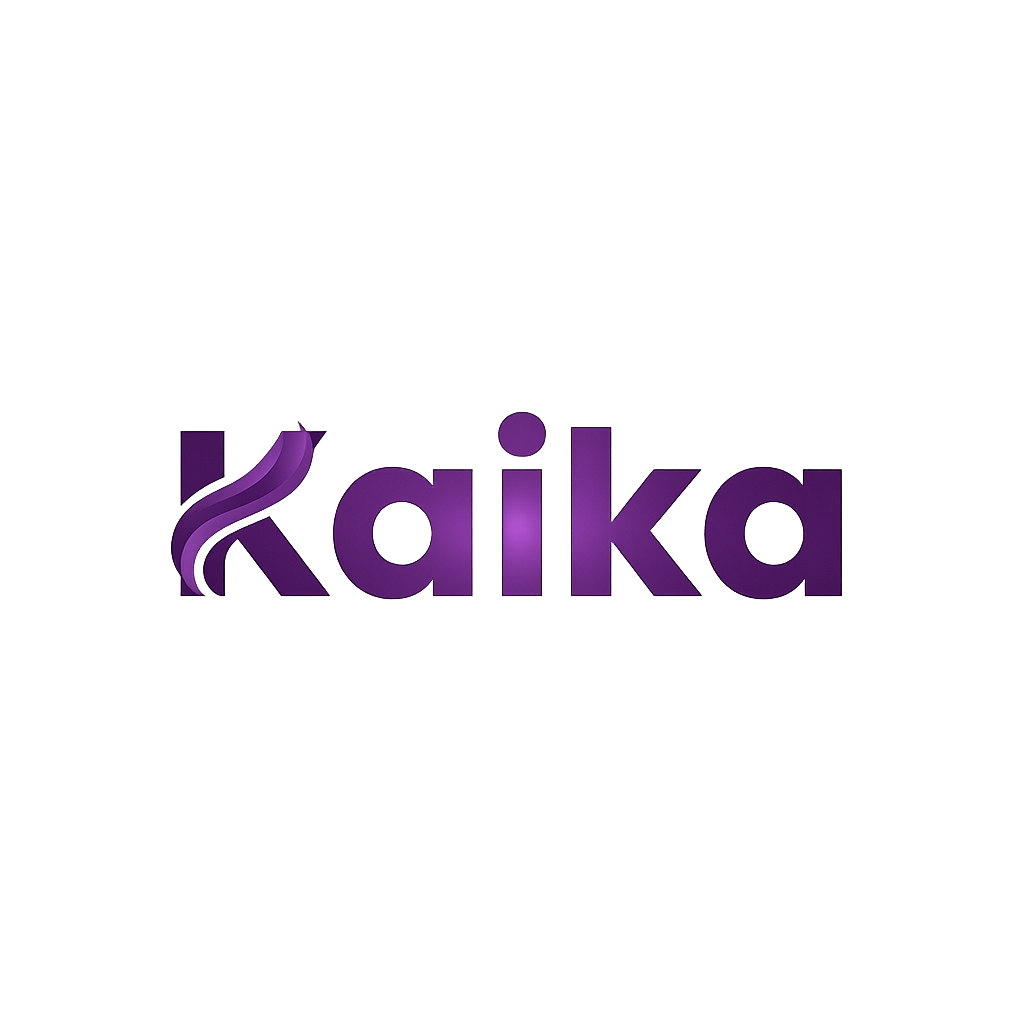
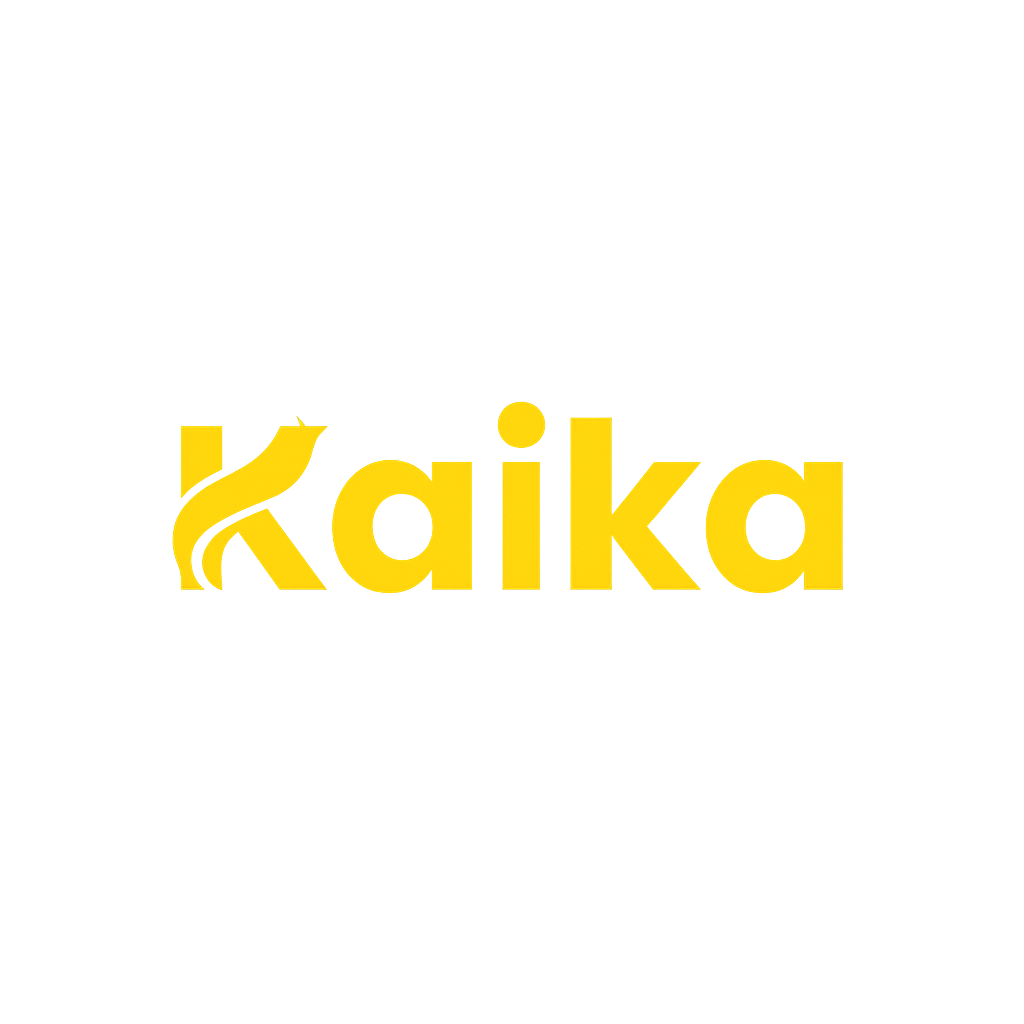
Services Images Updated

Changed region(s): [[0.1562, 0.375, 0.8438, 0.5938]]

diff --git a/src/components/Services.jsx b/src/components/Services.jsx
@@ -87,56 +87,56 @@ const Services = () => {
       description: "Brand positioning and market entry planning",
       detailedDescription: "We craft winning brand strategies from positioning and market research to competitive analysis. With Kaika, your brand doesn't just launch; it stands out.",
       hasPrice: false,
-      imagePath: "/strategy.jpeg" 
+      imagePath: "/strategy.png" 
     },
     {
       title: "Design",
       description: "Product and packaging design solutions",
       detailedDescription: "Product and packaging design that strikes a balance between creativity and functionality. Our team ensures your brand identity speaks volumes and attracts the right customers.",
       hasPrice: false,
-      imagePath: "/design.jpg" 
+      imagePath: "/design.png" 
     },
     {
       title: "Manufacturing",
       description: "End-to-end production management",
       detailedDescription: "End-to-end manufacturing solutions from sourcing premium materials and vendor vetting to production management and quality control. We deliver the best quality at affordable costs, so your growth is smooth and sustainable.",
       hasPrice: false,
-      imagePath: "/manufacturing.jpg" 
+      imagePath: "/manufacturing.png" 
     },
     {
       title: "Packaging",
       description: "Sustainable and brand-aligned packaging",
       detailedDescription: "Packaging design and production tailored to your brand story. From luxury finishes to eco-friendly solutions, we ensure your products make a lasting first impression. Your brand, our accountability.",
       hasPrice: false,
-      imagePath: "/packaging.jpg" 
+      imagePath: "/packaging.png" 
     },
     {
       title: "Fulfillment",
       description: "Warehousing and order fulfillment",
       detailedDescription: "Seamless logistics and order fulfillment solutions. We handle warehousing, distribution, and delivery so your customers enjoy a flawless brand experience.",
       hasPrice: false,
-      imagePath: "/fulfillment.jpg" 
+      imagePath: "/fulfillment.png" 
     },
     {
       title: "Legal",
       description: "Compliance and intellectual property",
       detailedDescription: "Full legal compliance and documentation support. From contracts and licensing to international trade regulations, Kaika safeguards your brand at every step.",
       hasPrice: false,
-      imagePath: "/legal.jpg" 
+      imagePath: "/legal.png" 
     },
     {
       title: "Marketing",
       description: "Digital and retail marketing strategies",
       detailedDescription: "Digital marketing and brand promotion strategies that drive awareness, engagement, and sales. From social media to performance campaigns, we help your brand scale globally.",
       hasPrice: false,
-      imagePath: "/marketing.jpg" 
+      imagePath: "/marketing.png" 
     },
     {
       title: "Expansion",
       description: "Market expansion and scaling solutions",
       detailedDescription: "Market expansion and scaling solutions to take your brand beyond borders. With the right partners, supply chain, and execution, Kaika ensures you grow without limits.",
       hasPrice: false,
-      imagePath: "/expansion.jpg" 
+      imagePath: "/expansion.png" 
     }
   ];
 

diff --git a/src/components/ServiceDetails.jsx b/src/components/ServiceDetails.jsx
@@ -33,7 +33,7 @@ const ServiceDetails = () => {
         "Because at Kaika, we don't just position brands, we define how they lead."
       ],
       hasPrice: false,
-      imagePath: "/strategy.jpeg"
+      imagePath: "/strategy.png"
     },
     {
       id: 'design',
@@ -46,7 +46,7 @@ const ServiceDetails = () => {
         "Because great design doesn't just look good, it drives recognition, trust, and long-term growth."
       ],
       hasPrice: false,
-      imagePath: "/design.jpg"
+      imagePath: "/design.png"
     },
     {
       id: 'manufacturing',
@@ -59,7 +59,7 @@ const ServiceDetails = () => {
         "With Kaika, you don't just manufacture, you build quality-backed brands that scale without surprises."
       ],
       hasPrice: false,
-      imagePath: "/manufacturing.jpg"
+      imagePath: "/manufacturing.png"
     },
     {
       id: 'packaging',
@@ -74,7 +74,7 @@ const ServiceDetails = () => {
         "Your brand, our accountability. Because at Kaika, we design experiences that build lasting impressions."
       ],
       hasPrice: false,
-      imagePath: "/packaging.jpg"
+      imagePath: "/packaging.png"
     },
     {
       id: 'fulfillment',
@@ -88,7 +88,7 @@ const ServiceDetails = () => {
         "Backed by concierge-style brand management, we make sure every order reflects your brand's promise of quality and accountability."
       ],
       hasPrice: false,
-      imagePath: "/fulfillment.jpg"
+      imagePath: "/fulfillment.png"
     },
     {
       id: 'legal',
@@ -99,7 +99,7 @@ const ServiceDetails = () => {
         "You focus on building your brand, we handle the paperwork and protect your name."
       ],
       hasPrice: false,
-      imagePath: "/legal.jpg"
+      imagePath: "/legal.png"
     },
     {
       id: 'marketing',
@@ -113,7 +113,7 @@ const ServiceDetails = () => {
         "Because a brand without visibility isn't a brand that lasts."
       ],
       hasPrice: false,
-      imagePath: "/marketing.jpg"
+      imagePath: "/marketing.png"
     },
     {
       id: 'expansion',
@@ -127,7 +127,7 @@ const ServiceDetails = () => {
         "Because with Kaika, your brand doesn't just grow — it scales with purpose."
       ],
       hasPrice: false,
-      imagePath: "/expansion.jpg"
+      imagePath: "/expansion.png"
     }
   ];
 

diff --git a/src/components/CallToAction.jsx b/src/components/CallToAction.jsx
@@ -25,14 +25,17 @@ const CallToAction = () => {
       className="cta-section"
       style={{
         padding: `clamp(60px, 10vw, 80px) clamp(10px, 5vw, 20px)`,
-        backgroundColor: '#9000ad',
-        color: 'white',
-        textAlign: 'center',
-        width: '100%',
-        maxWidth: '100vw',
-        margin: '0 auto',
-        boxSizing: 'border-box',
-        overflow: 'hidden',
+        backgroundImage: 'url("/ReadyToImage.jpeg")',
+        backgroundSize: "cover",
+        backgroundPosition: "center",
+        backgroundRepeat: "no-repeat",
+        color: "white",
+        textAlign: "center",
+        width: "100%",
+        maxWidth: "100vw",
+        margin: "0 auto",
+        boxSizing: "border-box",
+        overflow: "hidden",
       }}
     >
       <div className="cta-container">
@@ -62,6 +65,7 @@ const CallToAction = () => {
         .cta-title {
           font-size: clamp(2rem, 4vw, 2.5rem);
           margin-bottom: 20px;
+          color: #fcee21;
           line-height: 1.2;
           font-weight: 700;
           animation: fadeInUp 0.8s ease-out;
@@ -94,8 +98,8 @@ const CallToAction = () => {
         }
 
         .btn-white {
-          background: #fff;
-          color: #9000ad;
+          background: #fcee21;
+          color: black;
           border: 2px solid transparent;
           box-shadow: 0 0 15px rgba(255,255,255,0.3);
         }
@@ -111,7 +115,7 @@ const CallToAction = () => {
         }
         .btn-outline:hover {
           background: #fff;
-          color: #9000ad;
+          color: #fcee21;
           transform: translateY(-3px) scale(1.05);
           box-shadow: 0 0 25px rgba(255,255,255,0.5);
         }

diff --git a/src/components/Footer.css b/src/components/Footer.css
@@ -30,7 +30,7 @@
 /* HEADINGS */
 .footer-grid h3 {
   font-size: 1.2rem;
-  color: #9000ad;
+  color: #fcee21;
   margin-bottom: 20px;
   text-align: center;
 }
@@ -54,7 +54,7 @@
 }
 
 .footer-grid a:hover {
-  color: #9000ad;
+  color: #fcee21;
 }
 
 /* DIVIDER */
@@ -87,12 +87,12 @@
 }
 
 .text-purple {
-  color: #9000ad;
+  color: #fcee21;
   font-weight: 500;
 }
 
 .text-purple-bold {
-  color: #9000ad;
+  color: #fcee21;
   font-weight: 700;
 }
 
@@ -126,8 +126,8 @@
 
 /* BUTTON */
 .footer-btn {
-  background-color: #9000ad;
-  color: white;
+  background-color: #fcee21;
+  color: black;
   border: none;
   padding: 12px 30px;
   font-size: 1rem;
@@ -140,7 +140,7 @@
 }
 
 .footer-btn:hover {
-  background-color: #b020c5;
+  background-color: #fcee21;
 }
 
 /* IMAGE */

diff --git a/src/components/Hero.jsx b/src/components/Hero.jsx
@@ -3,7 +3,7 @@ import React, { useState, useEffect } from 'react';
 const Hero = ({ slides: propSlides = [] }) => {
   const defaultSlides = [
     {
-      image: '/banner.png',
+      image: '/5.png',
       title: 'We Build Brands That Last',
       subtitle: 'From vision to legacy — Your dream, designed to last.',
       subsubtitle:

diff --git a/src/components/Footer.jsx b/src/components/Footer.jsx
@@ -81,7 +81,7 @@ const Footer = () => {
           </div>
 
           <div className="certified-image">
-            <img src="/footer-kaika.jpg" alt="Kaika Certified Provider" />
+            <img src="/footer-kaika.jpeg" alt="Kaika Certified Provider" />
           </div>
         </div>
 
